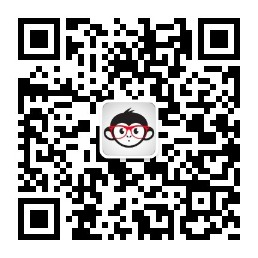
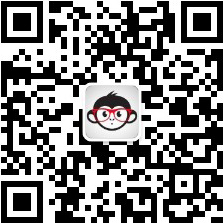
alignment update

diff --git a/src/app/pages/contact/contact.component.scss b/src/app/pages/contact/contact.component.scss
@@ -1,29 +1,26 @@
 .contact {
+  max-width: 1180px;
   width: 100%;
-  height: 675px;
-  background-image: url(../../../assets/images/banner.jpg);
-  margin-bottom: 10px;
+  height: 695px;
   background-repeat: no-repeat;
   background-size: 100%;
+  margin: 0 auto;
+  padding: 10px 0;
 }
 
 .contact-text {
-  width: 100%;
-  margin: 0 auto;
-  padding-top: 40px;
-  max-width: 1180px;
+  width: 29%;
+  float: right;
 }
 
 .contact-text div {
-  width: auto;
   text-align: left;
   margin-bottom: 20px;
-  color: #fff;
+  color: #000;
 }
 
 .shop-title {
   font-size: 28px;
-  font-weight: bolder;
 }
 
 .shop-address {
@@ -32,7 +29,6 @@
 
 .phone-title {
   font-size: 28px;
-  font-weight: bolder;
 }
 
 .phone-number {
@@ -41,37 +37,23 @@
 
 .wechat-title {
   font-size: 28px;
-  font-weight: bolder;
 }
 
 .wechat-number {
   font-size: 21px;
 }
 
-.body-bottom {
-  max-width: 1180px;
-  height: auto;
-  overflow: hidden;
-  margin: 0 auto 10px auto;
-}
-
-.QR-max {
-  width: 100%;
-  max-width: 1180px;
-  margin: 0 auto;
-}
-
 .QR {
   background-image: url(../../../assets/images/qrcode.jpg);
   background-repeat: no-repeat;
   background-size: 100%;
-  width: 258px;
-  height: 258px;
+  width: 150px;
+  height: 150px;
 }
 
 #map {
-  width: 100%;
-  height: 775px;
+  width: 69%;
+  height: 675px;
   float: left;
 }
 
@@ -80,18 +62,9 @@
 }
 
 @media (max-width:1280px) {
-  .contact {
-    height: 490px;
-  }
-
-  .contact-text {
-    padding-top: 65px;
-    padding-left: 10px;
-  }
   
   .shop-title {
     font-size: 21px;
-    font-weight: bolder;
   }
   
   .shop-address {
@@ -100,7 +73,6 @@
   
   .phone-title {
     font-size: 21px;
-    font-weight: bolder;
   }
   
   .phone-number {
@@ -109,20 +81,10 @@
   
   .wechat-title {
     font-size: 21px;
-    font-weight: bolder;
   }
   
   .wechat-number {
     font-size: 14px;
-  }
-
-  .QR {
-    width: 128px;
-    height: 128px;
-  }
-
-  .map {
-    height: 434px;
   }
 }
 
@@ -131,36 +93,29 @@
     height: 410px;
   }
 
-  .contact-text {
-    padding-top: 90px;
-    padding-left: 15px;
-  }
-
   #map {
-    width: 100%;
-    height: 450px;
+    margin-left: 5px;
+    height: 390px;
   }
 }
 
 @media (max-width:640px) {
   .contact {
-    width: 100%;
-    height: 100%;
+    height: 720px;
   }
 
   .contact-text {
-    padding-top: 40px;
-    padding-bottom: 40px;
-    padding-left: 15px;
+    width: 100%;
+    clear: both;
   }
 
   .contact-text div {
     margin-bottom: 5px;
+    text-align: center;
   }
 
   .shop-title {
     font-size: 14px;
-    font-weight: bolder;
   }
   
   .shop-address {
@@ -169,7 +124,6 @@
   
   .phone-title {
     font-size: 14px;
-    font-weight: bolder;
   }
   
   .phone-number {
@@ -178,7 +132,6 @@
   
   .wechat-title {
     font-size: 14px;
-    font-weight: bolder;
   }
   
   .wechat-number {
@@ -188,6 +141,8 @@
   #map {
     width: 100%;
     height: 450px;
+    margin: 0;
+    padding: 0;
   }
 
   .QR {
@@ -197,18 +152,6 @@
 
 @media (max-width:320px) { 
   .contact {
-    width: 100%;
-    height: 100%;
+    height: 720px;
   }
-
-  .contact-text {
-    padding-top: 10px;
-    padding-bottom: 10px;
-    padding-left: 15px;
-  }
-
-  .QR {
-    margin: 10px auto 0 auto;
-  }
-
 }

diff --git a/src/app/pages/curriculum/curriculum.component.scss b/src/app/pages/curriculum/curriculum.component.scss
@@ -115,7 +115,7 @@
 
 .curriculum {
   width: 100%;
-  height: 345px;
+  height: 290px;
   padding: 0 6.5%;
   margin: 20px 0;
 }
@@ -131,25 +131,8 @@
 
 @media (max-width:1425px) { 
   .carousel-size {
-    height: 450px;
+    height: 438px;
     width: 100%;
-  }
-  .curriculum {
-    width: 95%;
-    height: 460px;
-    overflow-x:scroll;
-    margin: 15px auto;
-    padding: 0;
-  }
-
-  .curriculum-img {
-    width: 1412px;
-  }
-  .tips {
-    display: block;
-    padding: 0 25px;
-    font-size: 2em;
-    font-weight: bolder;
   }
 }
 
@@ -171,7 +154,7 @@
   }
 
   .tips {
-    display: block;
+    display: none;
     padding: 0 25px;
     font-size: 2em;
     font-weight: bolder;
@@ -180,7 +163,7 @@
 
 @media (max-width:768px) {
   .carousel-size {
-    height: 280px;
+    height: 290px;
     width: 100%;
   }
 
@@ -239,7 +222,7 @@
 
 @media (max-width:640px) {
   .carousel-size {
-    height: 150px;
+    height: 155px;
     width: 100%;
   }
 
@@ -298,7 +281,7 @@
 
 @media (max-width:320px) {
   .carousel-size {
-    height: 123px;
+    height: 112px;
     width: 100%;
   }
 }

diff --git a/src/app/pages/contact/contact.component.html b/src/app/pages/contact/contact.component.html
@@ -5,22 +5,18 @@
       <span>联系我们</span>
     </div>
     <div class="shop">
-      <span class="shop-address">佛山市顺德区乐从镇威斯广场中心广场101号铺</span>
-    </div>
-    <div class="phone">
+      <span class="shop-address">佛山市顺德区乐从镇威斯广场中心广场101号铺</span><br />
       <span class="phone-number">18038805100（陈老师）</span>
     </div>
     <div class="wechat-title">
       <span>关注我们</span>
     </div>
+    <div>
+      <div class="QR"></div>
+    </div>
   </div>
-  <div class="QR-max">
-    <div class="QR"></div>
+  <div class="body-bottom">
+    <div id = "map"></div>
   </div>
 </div>
-<div class="body-bottom">
-  <div id = "map"></div>
-  <!-- <div class="QR-code"></div> -->
-</div>
-
 <footer></footer>

diff --git a/src/app/pages/contact/contact.component.ts b/src/app/pages/contact/contact.component.ts
@@ -15,6 +15,10 @@ export class ContactComponent implements OnInit {
     const point = new BMap.Point(113.088134,22.96479);//创建点坐标
     map.centerAndZoom(point, 15);//初始化地图，设置中心点坐标和地图级别
     map.enableScrollWheelZoom(true);//开启鼠标滚轮缩
+    map.addControl(new BMap.NavigationControl());    
+    map.addControl(new BMap.ScaleControl());    
+    map.addControl(new BMap.OverviewMapControl());    
+    map.addControl(new BMap.MapTypeControl());    
     var marker = new BMap.Marker(point);        // 创建标注    
     map.addOverlay(marker);
   }

diff --git a/src/app/pages/common/footer/footer.component.scss b/src/app/pages/common/footer/footer.component.scss
@@ -198,18 +198,20 @@ ul.social-icons1 li {
 }
 @media (max-width:640px) {
   .phone-width {
-    max-width: 320px;
-    padding: 0;
-    margin: 0 auto;
     border: 0;
+    clear: both;
+  }
+  .soci {
+    padding-left: 15px;
   }
 }
 
 @media (max-width:320px) {
   .phone-width {
-    max-width: 275px;
-    padding: 0;
-    margin: 0 auto;
     border: 0;
+    clear: both;
+  }
+  .soci {
+    padding-left: 15px;
   }
 }

diff --git a/src/app/pages/common/footer/footer.component.html b/src/app/pages/common/footer/footer.component.html
@@ -12,7 +12,7 @@
         <div class="col-md-3 soci wow fadeInRight animated phone-width" data-wow-delay=".5s">
           <h4>关注我们</h4>
           <div>
-            <img src="assets/images/qrcode.jpg" />
+            <img src="assets/images/qrcode2.jpg" />
           </div>
         </div>
       </div>
